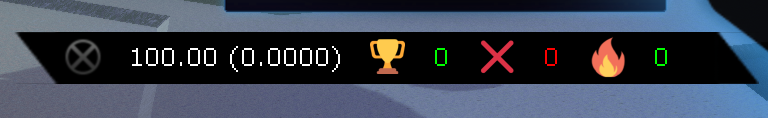
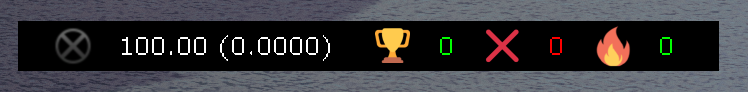
Background scaling fix (#3)
* refactor background display

* refactor v3 positions

* use box instead of background

* remove background image

diff --git a/RocketStats/RocketStats.cpp b/RocketStats/RocketStats.cpp
@@ -30,10 +30,6 @@ void RocketStats::LoadImgs()
 {
 	int load_check = 0;
 
-	background = std::make_shared<ImageWrapper>(gameWrapper->GetBakkesModPath().string() + "\\RocketStats\\RocketStats_images\\background.png", true);
-	load_check += (int)background->LoadForCanvas();
-	LogImageLoadStatus(background->LoadForCanvas(), "background");
-
 	crown = std::make_shared<ImageWrapper>(gameWrapper->GetBakkesModPath().string() + "\\RocketStats\\RocketStats_images\\crown.png", true);
 	load_check += (int)crown->LoadForCanvas();
 	LogImageLoadStatus(crown->LoadForCanvas(), "crown");
@@ -440,13 +436,11 @@ void RocketStats::MajRank(int _gameMode, bool isRanked, float _currentMMR, Skill
 #pragma region OverlayMgmt
 void RocketStats::DisplayRank(CanvasWrapper canvas, Vector2 imagePos, Vector2 textPos_tmp, float scale, bool showText)
 {
-	std::string tmpRank = currentRank;
 	if (currentTier >= rank_nb)
 	{
 		currentTier = 0;
 	}
 	std::shared_ptr<ImageWrapper> image = rank[currentTier].image;
-	replaceAll(tmpRank, "_", " ");
 
 	canvas.SetColor(LinearColor{ 255, 255, 255, 255 });
 	canvas.SetPosition(imagePos);
@@ -454,12 +448,13 @@ void RocketStats::DisplayRank(CanvasWrapper canvas, Vector2 imagePos, Vector2 te
 
 	if (showText)
 	{
+		std::string tmpRank = currentRank;
+		replaceAll(tmpRank, "_", " ");
 		canvas.SetPosition(textPos_tmp);
 		if (currentDivision == "") canvas.DrawString(tmpRank, 2.0f * scale, 2.0f * scale);
 		else canvas.DrawString(tmpRank + " " + currentDivision, 2.0f * scale, 2.0f * scale);
 	}
 }
-
 void RocketStats::DisplayMMR(CanvasWrapper canvas, Vector2 imagePos, Vector2 textPos_tmp, Stats current, float scale, bool showImage)
 {
 	std::string mmr = to_string_with_precision(current.myMMR, 2);
@@ -533,117 +528,15 @@ void RocketStats::Render(CanvasWrapper canvas)
 	float RS_scale = cvarManager->getCvar("RS_scale").getFloatValue();
 	Stats current = (RS_session == true) ? session : stats[currentPlaylist];
 
-	// v3
-	if (!RS_Use_v1 && !RS_Use_v2)
-	{
-		auto canSize = canvas.GetSize();
-		Vector2 imagePos = { int(RS_x_position * canSize.X), int(RS_y_position * canSize.Y) };
-
-		// Add Background
-		canvas.SetColor(LinearColor{ 255, 255, 255, 255 });
-		canvas.SetPosition(imagePos);
-		if (background->IsLoadedForCanvas()) canvas.DrawTexture(background.get(), RS_scale * 1.3);
-		imagePos.X += int(45 * RS_scale);
-
-		Vector2 textPos_tmp = imagePos;
-
-		textPos_tmp.X += int(70 * RS_scale);
-		textPos_tmp.Y += int(10 * RS_scale);
-
-		// Display Rank
-		if (cvarManager->getCvar("RS_disp_rank").getBoolValue())
-		{
-			DisplayRank(canvas, imagePos, textPos_tmp, RS_scale, false);
-		}
-
-		// Display MMR
-		if (cvarManager->getCvar("RS_disp_mmr").getBoolValue())
-		{
-			DisplayMMR(canvas, imagePos, textPos_tmp, current, RS_scale, false);
-			imagePos.X += int(305 * RS_scale);
-			textPos_tmp.X += int(305 * RS_scale);
-		}
-
-		// Display Win
-		if (cvarManager->getCvar("RS_disp_wins").getBoolValue())
-		{
-			DisplayWins(canvas, imagePos, textPos_tmp, current, RS_scale);
-			imagePos.X += int(110 * RS_scale);
-			textPos_tmp.X += int(110 * RS_scale);
-		}
-
-		// Display Loose
-		if (cvarManager->getCvar("RS_disp_losses").getBoolValue())
-		{
-			DisplayLoose(canvas, imagePos, textPos_tmp, current, RS_scale);
-			imagePos.X += int(110 * RS_scale);
-			textPos_tmp.X += int(110 * RS_scale);
-		}
-
-		// Display Streak
-		if (cvarManager->getCvar("RS_disp_streak").getBoolValue())
-		{
-			DisplayStreak(canvas, imagePos, textPos_tmp, current, RS_scale, true);
-		}
-	}
-	// v2
-	else if (!RS_Use_v1)
-	{
-		auto canSize = canvas.GetSize();
-		Vector2 imagePos = { int(RS_x_position * canSize.X), int(RS_y_position * canSize.Y) };
-		Vector2 textPos_tmp = imagePos;
-
-		textPos_tmp.X += int(50 * RS_scale);
-		textPos_tmp.Y += int(10 * RS_scale);
-
-		// Display Rank
-		if (cvarManager->getCvar("RS_disp_rank").getBoolValue())
-		{
-			DisplayRank(canvas, imagePos, textPos_tmp, RS_scale, true);
-			imagePos.Y += int(50 * RS_scale);
-			textPos_tmp.Y += int(50 * RS_scale);
-		}
-
-		// Display MMR
-		if (cvarManager->getCvar("RS_disp_mmr").getBoolValue())
-		{
-			DisplayMMR(canvas, imagePos, textPos_tmp, current, RS_scale, true);
-			imagePos.Y += int(50 * RS_scale);
-			textPos_tmp.Y += int(50 * RS_scale);
-		}
-
-		// Display Win
-		if (cvarManager->getCvar("RS_disp_wins").getBoolValue())
-		{
-			DisplayWins(canvas, imagePos, textPos_tmp, current, RS_scale);
-			imagePos.Y += int(50 * RS_scale);
-			textPos_tmp.Y += int(50 * RS_scale);
-		}
-
-		// Display Loose
-		if (cvarManager->getCvar("RS_disp_losses").getBoolValue())
-		{
-			DisplayLoose(canvas, imagePos, textPos_tmp, current, RS_scale);
-		}
-
-		// Display Streak
-		if (cvarManager->getCvar("RS_disp_streak").getBoolValue())
-		{
-			textPos_tmp.X += int(75 * RS_scale);
-			textPos_tmp.Y -= int(25 * RS_scale);
-			DisplayStreak(canvas, imagePos, textPos_tmp, current, RS_scale, false);
-		}
-	}
-	// v1
-	else
+	if (RS_Use_v1)
 	{
 		std::vector<std::string> RS_values = {
-			"RS_disp_gamemode",
-			"RS_disp_rank",
-			"RS_disp_mmr",
-			"RS_disp_wins",
-			"RS_disp_losses",
-			"RS_disp_streak",
+			   "RS_disp_gamemode",
+			   "RS_disp_rank",
+			   "RS_disp_mmr",
+			   "RS_disp_wins",
+			   "RS_disp_losses",
+			   "RS_disp_streak",
 		};
 
 		unsigned int size = 0;
@@ -742,6 +635,128 @@ void RocketStats::Render(CanvasWrapper canvas)
 				// Increase Y position
 				textPos.Y += int(20 * RS_scale);
 			}
+		}
+	}
+	else if (RS_Use_v2)
+	{
+		auto canSize = canvas.GetSize();
+		Vector2 imagePos = { int(RS_x_position * canSize.X), int(RS_y_position * canSize.Y) };
+		Vector2 textPos_tmp = imagePos;
+
+		textPos_tmp.X += int(50 * RS_scale);
+		textPos_tmp.Y += int(10 * RS_scale);
+
+		// Display Rank
+		if (cvarManager->getCvar("RS_disp_rank").getBoolValue())
+		{
+			DisplayRank(canvas, imagePos, textPos_tmp, RS_scale, true);
+			imagePos.Y += int(50 * RS_scale);
+			textPos_tmp.Y += int(50 * RS_scale);
+		}
+
+		// Display MMR
+		if (cvarManager->getCvar("RS_disp_mmr").getBoolValue())
+		{
+			DisplayMMR(canvas, imagePos, textPos_tmp, current, RS_scale, true);
+			imagePos.Y += int(50 * RS_scale);
+			textPos_tmp.Y += int(50 * RS_scale);
+		}
+
+		// Display Win
+		if (cvarManager->getCvar("RS_disp_wins").getBoolValue())
+		{
+			DisplayWins(canvas, imagePos, textPos_tmp, current, RS_scale);
+			imagePos.Y += int(50 * RS_scale);
+			textPos_tmp.Y += int(50 * RS_scale);
+		}
+
+		// Display Loose
+		if (cvarManager->getCvar("RS_disp_losses").getBoolValue())
+		{
+			DisplayLoose(canvas, imagePos, textPos_tmp, current, RS_scale);
+		}
+
+		// Display Streak
+		if (cvarManager->getCvar("RS_disp_streak").getBoolValue())
+		{
+			textPos_tmp.X += int(75 * RS_scale);
+			textPos_tmp.Y -= int(25 * RS_scale);
+			DisplayStreak(canvas, imagePos, textPos_tmp, current, RS_scale, false);
+		}
+	}
+	else
+	{
+		const bool displayRank = cvarManager->getCvar("RS_disp_rank").getBoolValue();
+		const bool displayMMR = cvarManager->getCvar("RS_disp_mmr").getBoolValue();
+		const bool displayWins = cvarManager->getCvar("RS_disp_wins").getBoolValue();
+		const bool displayLosses = cvarManager->getCvar("RS_disp_losses").getBoolValue();
+		const bool displayStreak = cvarManager->getCvar("RS_disp_streak").getBoolValue();
+		int size = 0;
+
+		if (displayRank) size += 70;
+		if (displayMMR) size += 250;
+		if (displayWins) size += 110;
+		if (displayLosses) size += 110;
+		if (displayStreak) size += 110;
+		if (displayWins || displayLosses || displayStreak) size += 50;
+
+		auto canSize = canvas.GetSize();
+
+		// Draw box here
+		Vector2 backgroundPos = { int(RS_x_position * canSize.X), int(RS_y_position * canSize.Y) };
+		Vector2 sizeBox = {
+			int(size * RS_scale),
+			int(50 * RS_scale)
+		};
+		canvas.SetPosition(backgroundPos);
+		canvas.SetColor(LinearColor{ 0, 0, 0, 255 });
+		canvas.FillBox(sizeBox);
+
+		Vector2 imagePos = backgroundPos;
+		imagePos.X += int(30 * RS_scale);
+
+		Vector2 textPos_tmp = imagePos;
+		textPos_tmp.Y += int(10 * RS_scale);
+
+		// Display Rank
+		if (displayRank)
+		{
+			DisplayRank(canvas, imagePos, textPos_tmp, RS_scale, false);
+			imagePos.X += int(70 * RS_scale);
+			textPos_tmp.X += int(70 * RS_scale);
+		}
+
+		// Display MMR
+		if (displayMMR)
+		{
+			DisplayMMR(canvas, imagePos, textPos_tmp, current, RS_scale, false);
+			imagePos.X += int(250 * RS_scale);
+			textPos_tmp.X += int(250 * RS_scale);
+		}
+
+		// Adjust text postition for the rest with images
+		textPos_tmp.X += int(70 * RS_scale);
+
+		// Display Win
+		if (displayWins)
+		{
+			DisplayWins(canvas, imagePos, textPos_tmp, current, RS_scale);
+			imagePos.X += int(110 * RS_scale);
+			textPos_tmp.X += int(110 * RS_scale);
+		}
+
+		// Display Loose
+		if (displayLosses)
+		{
+			DisplayLoose(canvas, imagePos, textPos_tmp, current, RS_scale);
+			imagePos.X += int(110 * RS_scale);
+			textPos_tmp.X += int(110 * RS_scale);
+		}
+
+		// Display Streak
+		if (displayStreak)
+		{
+			DisplayStreak(canvas, imagePos, textPos_tmp, current, RS_scale, true);
 		}
 	}
 }

diff --git a/RocketStats/RocketStats.h b/RocketStats/RocketStats.h
@@ -78,7 +78,6 @@ public:
 	std::string currentRank;
 	std::string lastRank;
 
-	std::shared_ptr<ImageWrapper> background;
 	std::shared_ptr<ImageWrapper> crown;
 	std::shared_ptr<ImageWrapper> win;
 	std::shared_ptr<ImageWrapper> loose;
